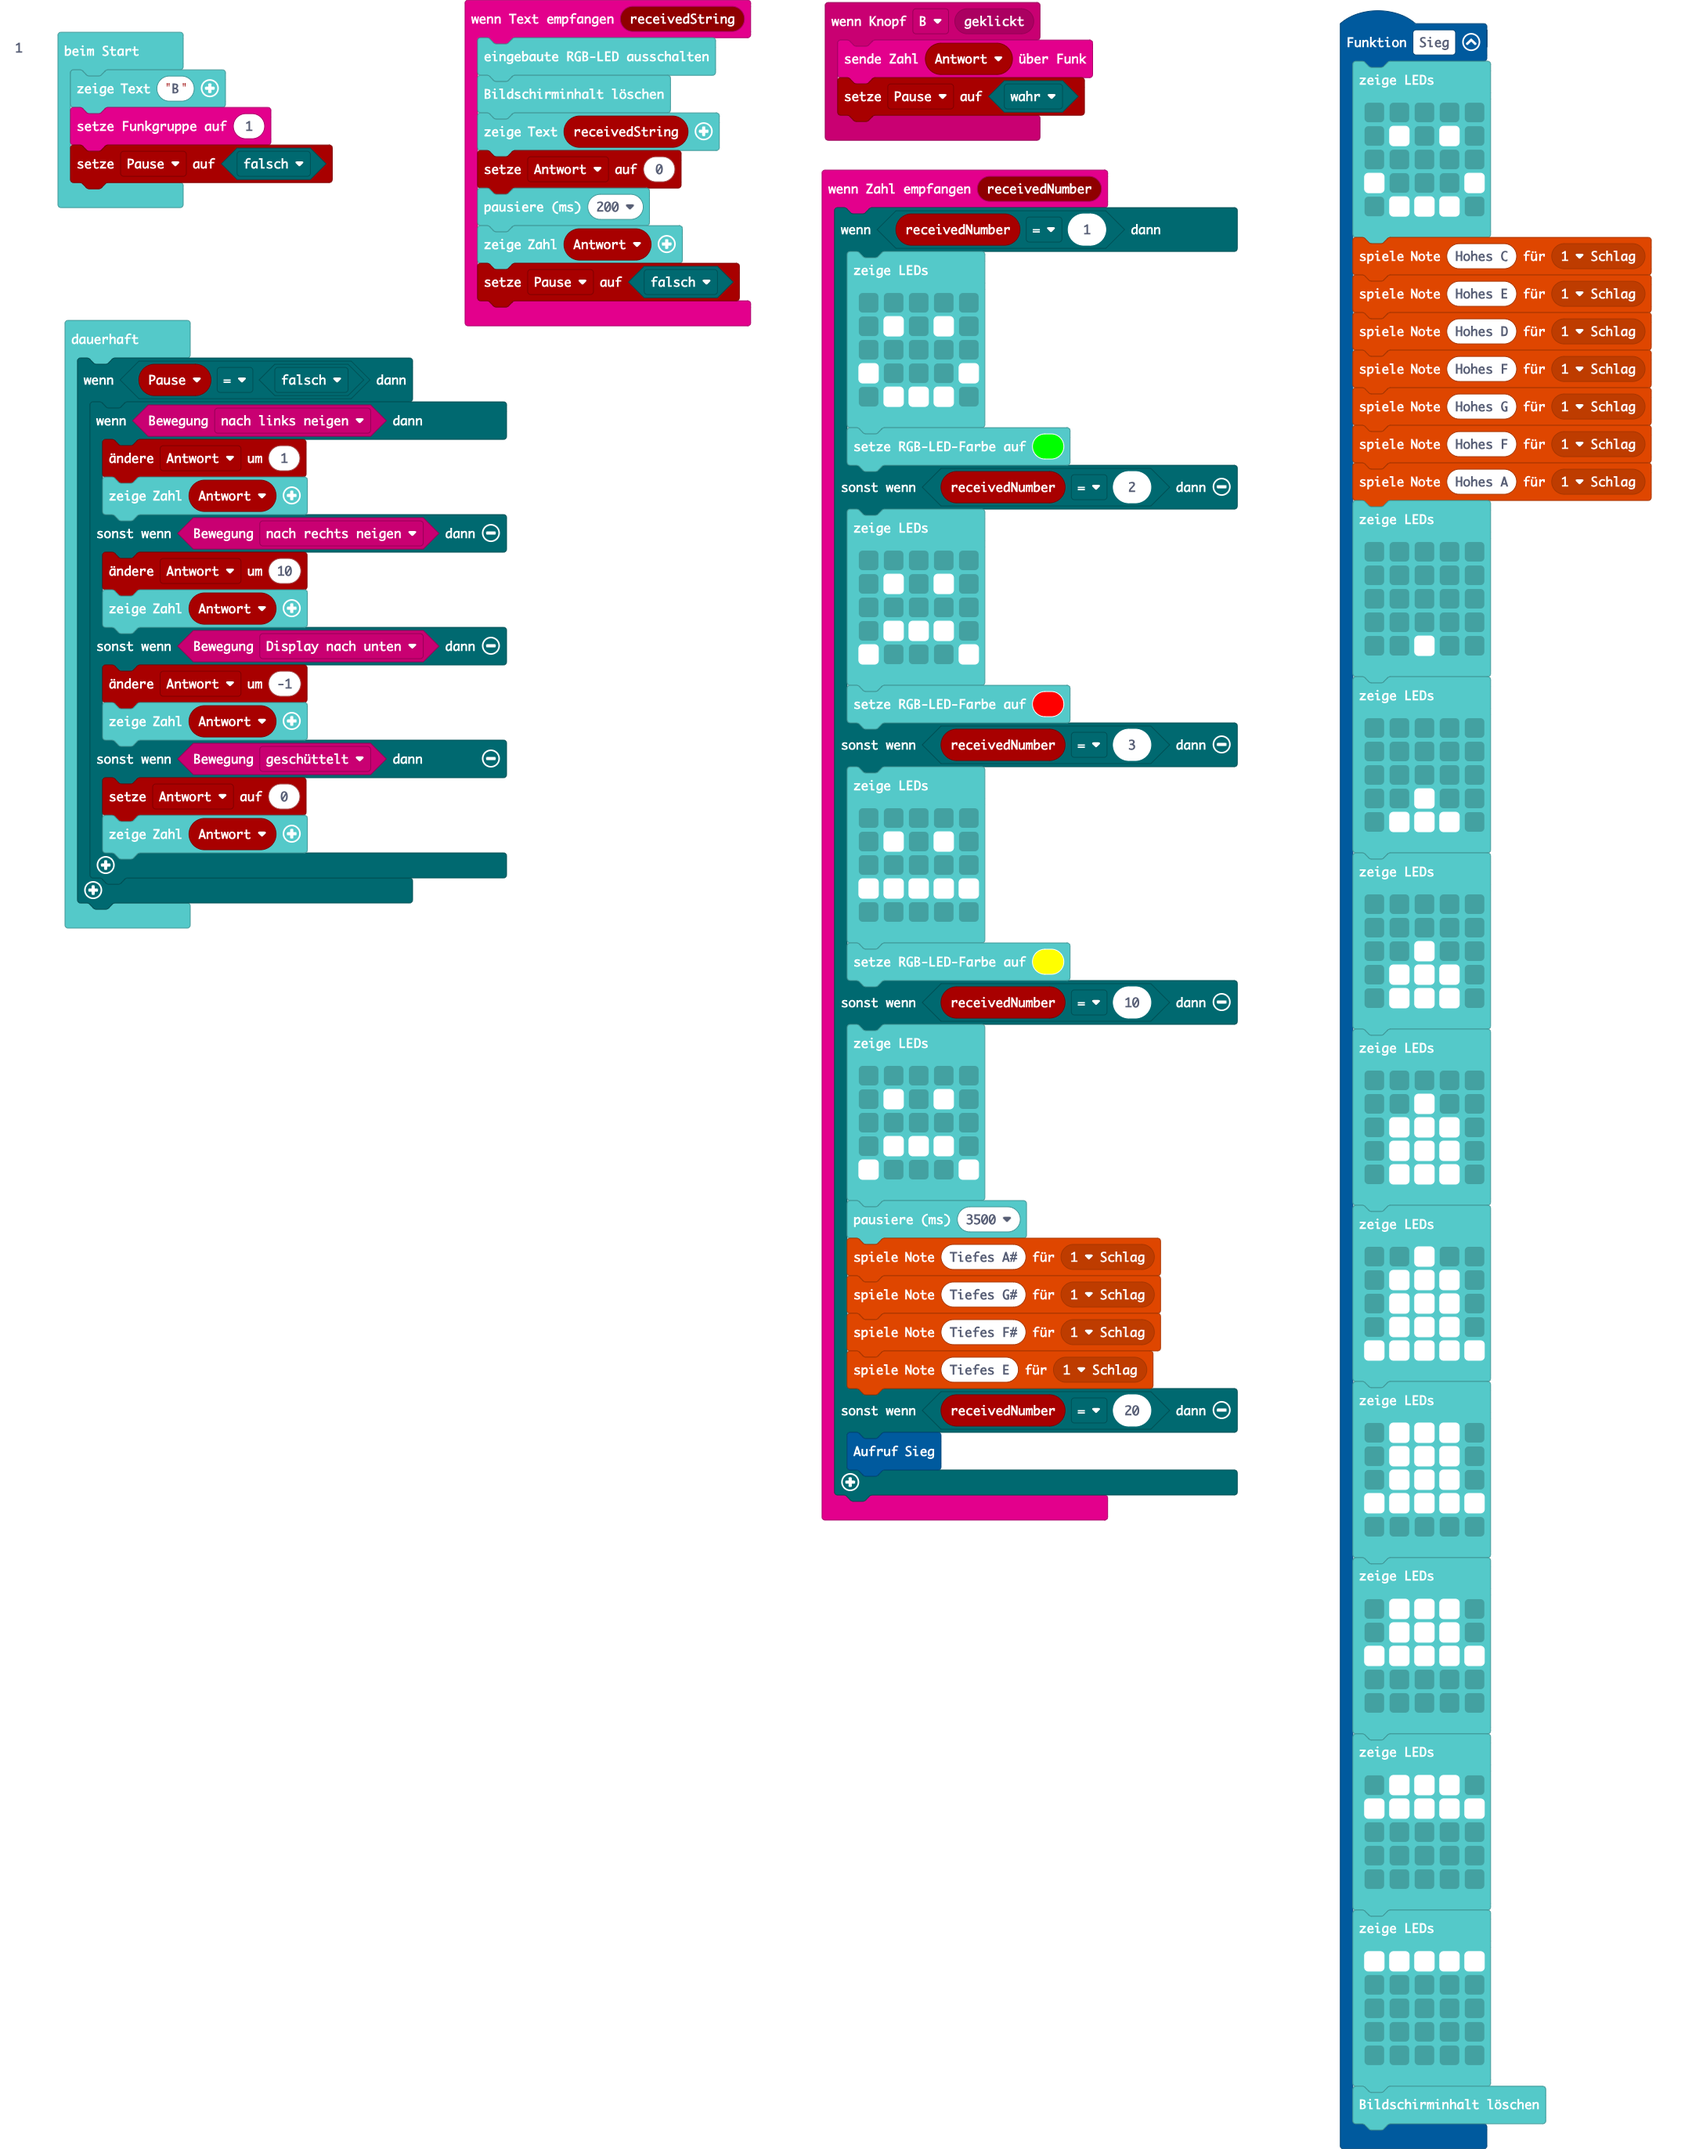
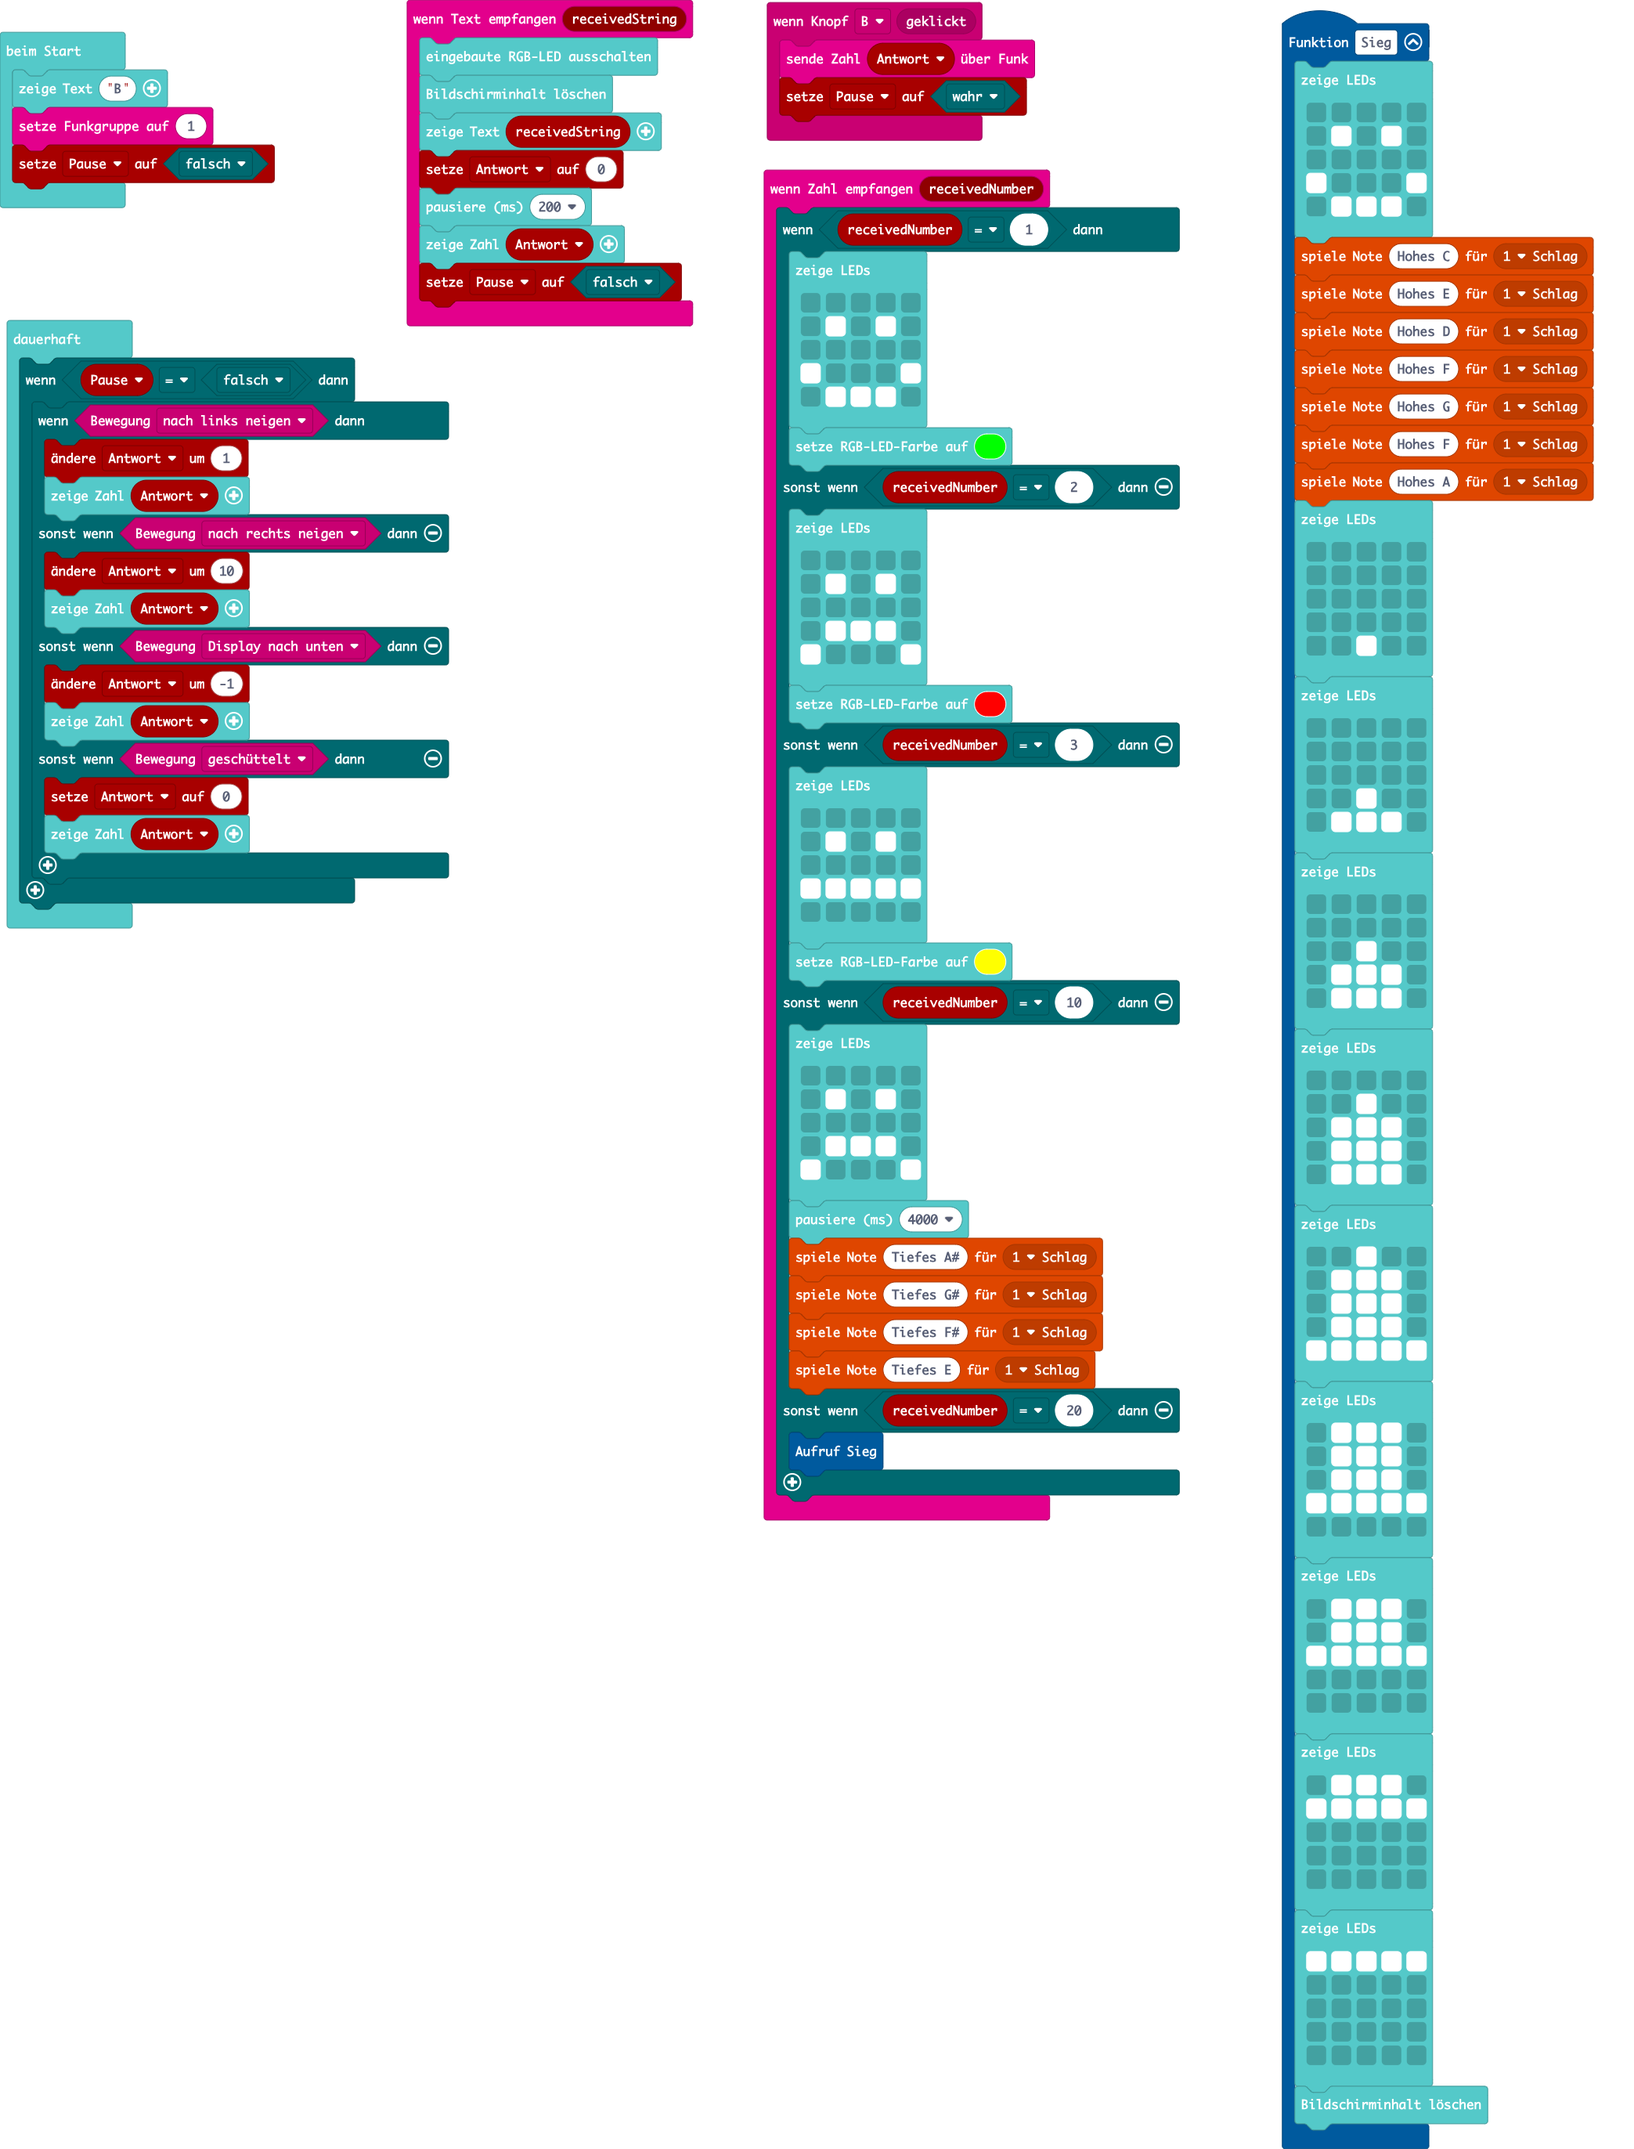
Aktualisiere main.blocks, main.ts

diff --git a/main.ts b/main.ts
@@ -37,7 +37,7 @@ radio.onReceivedNumber(function (receivedNumber) {
             . # # # .
             # . . . #
             `)
-        basic.pause(3500)
+        basic.pause(4000)
         music.playTone(233, music.beat(BeatFraction.Whole))
         music.playTone(208, music.beat(BeatFraction.Whole))
         music.playTone(185, music.beat(BeatFraction.Whole))
